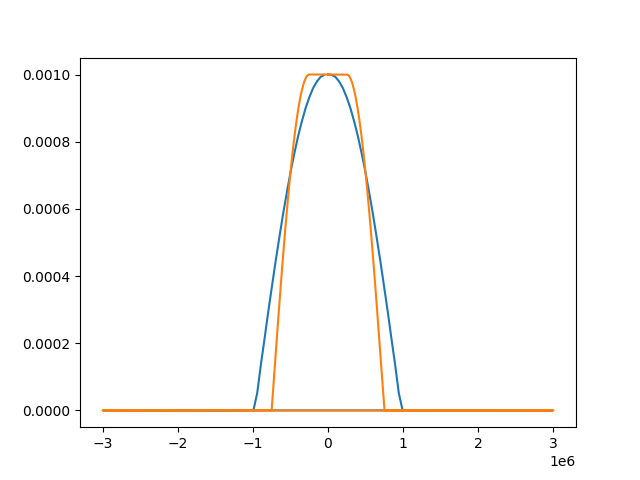
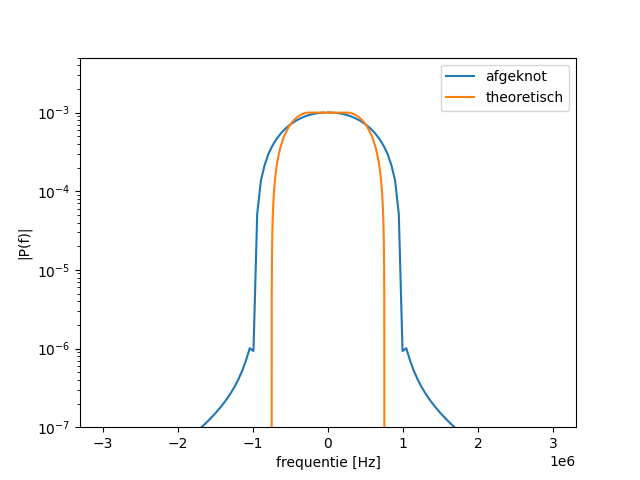
ber plot

diff --git a/Python/run_simulation.py b/Python/run_simulation.py
@@ -1,4 +1,4 @@
-from numpy.lib.index_tricks import IndexExpression
+from numpy.lib.index_tricks import IndexExpression, MGridClass
 from kwantisatie import Kwantisatie
 from broncodering import Broncodering
 from kanaalcodering import Kanaalcodering
@@ -64,7 +64,7 @@ def run_moddet():
     theta = math.pi / 16
 
     obj = ModDet()
-    bitstring = bin(random.randint(0,2**1000))[2:].zfill(1000)
+    bitstring = bin(random.randint(0,2**20))[2:].zfill(20)
     bitvector_in = []
     for bit in bitstring:
         bitvector_in.append(int(bit))
@@ -73,7 +73,7 @@ def run_moddet():
     else:
         slice = -1
     
-    ######### PLOT |P(f)| ##########
+    ######### PLOT |P(f)| #########
     
     def plot_puls(alhpa, filename):
         t_theorie = np.linspace(-1000*Lf*T, 1000*Lf*T, 2*Lf*Ns*1000 + 1)
@@ -86,19 +86,60 @@ def run_moddet():
         theorie_fourier = fft(theorie)*T/Ns
         theorie_x = fftfreq(2*1000*Lf*Ns +1, d=T/Ns)
 
-        plt.plot(afgeknot_x, np.abs(afgeknot_fourier))
-        plt.plot(theorie_x, np.abs(theorie_fourier))
-        
+        #plt.plot(afgeknot_x, np.abs(afgeknot_fourier), label = "afgeknot")
+        plt.semilogy(afgeknot_x, np.abs(afgeknot_fourier), label = "afgeknot")
+        #plt.plot(theorie_x, np.abs(theorie_fourier), label = "theoretisch")
+        plt.semilogy(theorie_x, np.abs(theorie_fourier), label = "theoretisch")
+        plt.legend()
+        plt.xlabel('frequentie [Hz]')
+        plt.ylabel('|P(f)|')
+        plt.ylim((10**(-7), 5*10**(-3)))
         plt.savefig(filename)
         plt.close()
         return
 
+    # plot_puls(0.05, "moddet/puls/alpha_05.png")
+    # plot_puls(0.5, "moddet/puls/alpha_50.png")
+    # plot_puls(0.95, "moddet/puls/alpha_95.png")
 
-    # plot_puls(0.05)
-    # plot_puls(0.5)
-    plot_puls(0.95, "moddet/puls/alpha_95.png")
-    return
+    ######### PLOT BER #########
+    def plot_ber(constellatie, L):
+        tabel = obj.mappingstabel(constellatie)
+        mc = math.log2(len(tabel))
+        Eb = 1/mc
+        N0_list = [i*0.005 + 0.0001 for i in range(100)]
+        N = 100 #aantal steekproeven
+
+        #bitvector met lengte L
+        bitstring = bin(random.randint(0,2**L))[2:].zfill(L)
+        bitvector_in = []
+        for bit in bitstring:
+            bitvector_in.append(int(bit))
+
+        BER_mx = np.reshape(np.zeros(len(N0_list)*N), (len(N0_list), N))
+        for i in range(0,len(N0_list)):
+            for j in range(0,100):
+                N0 = N0_list[i]
+                bitvector_out = obj.modulation_detection(bitvector_in, constellatie, T, Ns, f0, alpha, Lf, N0, hch, theta)
+                aantal_fout = sum(abs(np.array(bitvector_out)-np.array(bitvector_in)))
+                BER_mx[i,j] = aantal_fout/L
+        BER = np.mean(BER_mx, 1)
+        x = 10*np.log10(np.ones(len(N0_list))*Eb/N0_list)
+        plt.semilogy(x, BER)
+        plt.ylim((10**(-4), 10**(-1)))
+        plt.xlim((0,14))
+        plt.xlabel('Eb/N0 [dB]')
+        plt.ylabel('BER')
+        plt.axvline(1.33, 0, 0.05, color = 'k', lw = 0.5)
+        plt.hlines(0.05, 0, 1.33, color = 'k', lw =0.5)
+        plt.plot([1.33], [0.05], marker='o', markersize=3, color="red")
+        plt.savefig('moddet/BER/BPSK.png')
+        plt.close()
+        return
     
+    plot_ber('BPSK', 1000)
+    return
+
     print('TESTING MODDET:')
     print('---------------')
     print("BPSK: ")
@@ -112,6 +153,8 @@ def run_moddet():
     bitvector_out = obj.demapper(a_estim, 'BPSK')
     if bitvector_in == bitvector_out: print('OK') 
     else: print('NOT OK')
+
+    return
 
     print('4QAM: ')
     a = obj.mapper(bitvector_in, '4QAM')
@@ -156,6 +199,6 @@ warnings.simplefilter('ignore') # ignore warnings of integral
 
 
 #run_kwantisatie()
-run_broncodering()
+#run_broncodering()
 #run_kanaalcodering()
-#run_moddet()
+run_moddet()

diff --git a/Python/moddet.py b/Python/moddet.py
@@ -199,7 +199,10 @@ class ModDet():
         pulsevector = self.pulse(t_vector, T, alpha)
        
         rdemod = Ts * np.convolve(pulsevector,rr)  
-        
+        time = np.linspace(0, T*len(r)*Ns, len(rdemod) )
+        # plt.plot(time, abs(rdemod))
+        # plt.show()
+        # plt.close()
         return rdemod
     
     # functie die de pulse aanmaakt - niet veranderen
